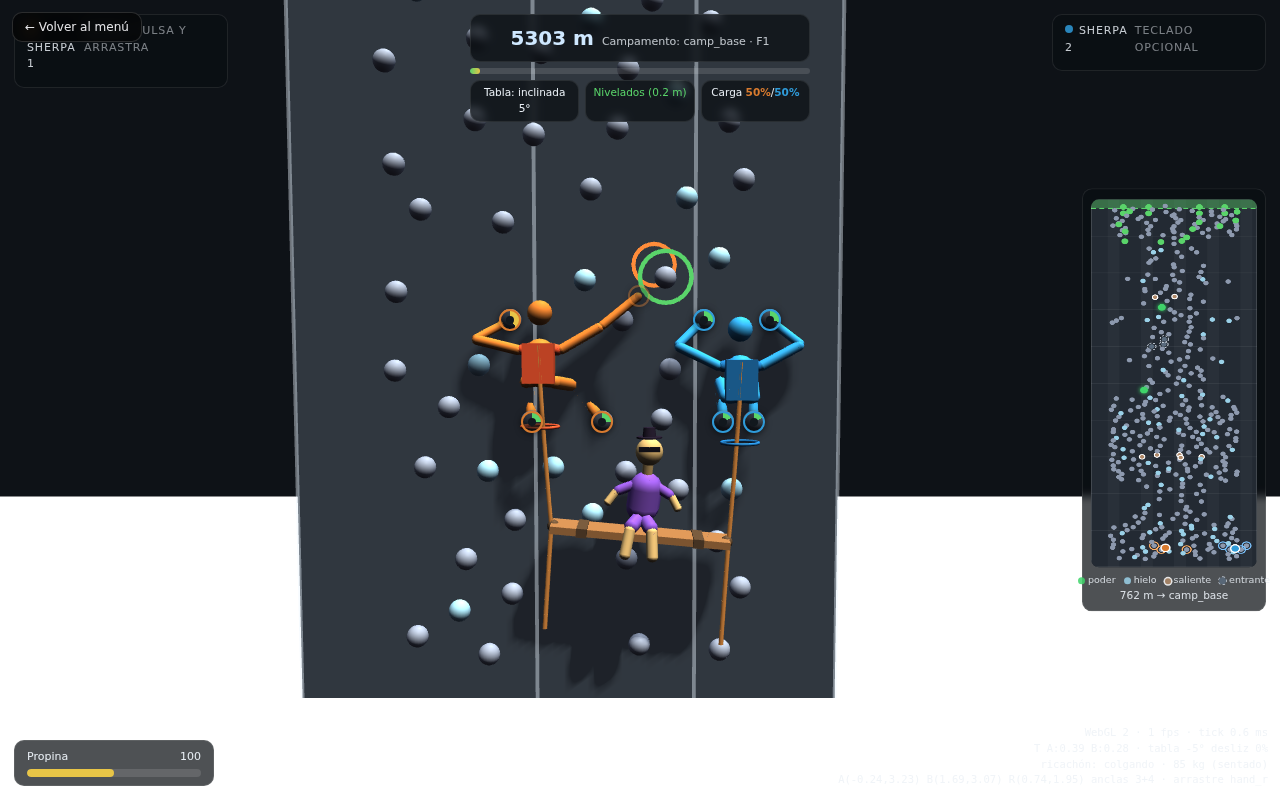
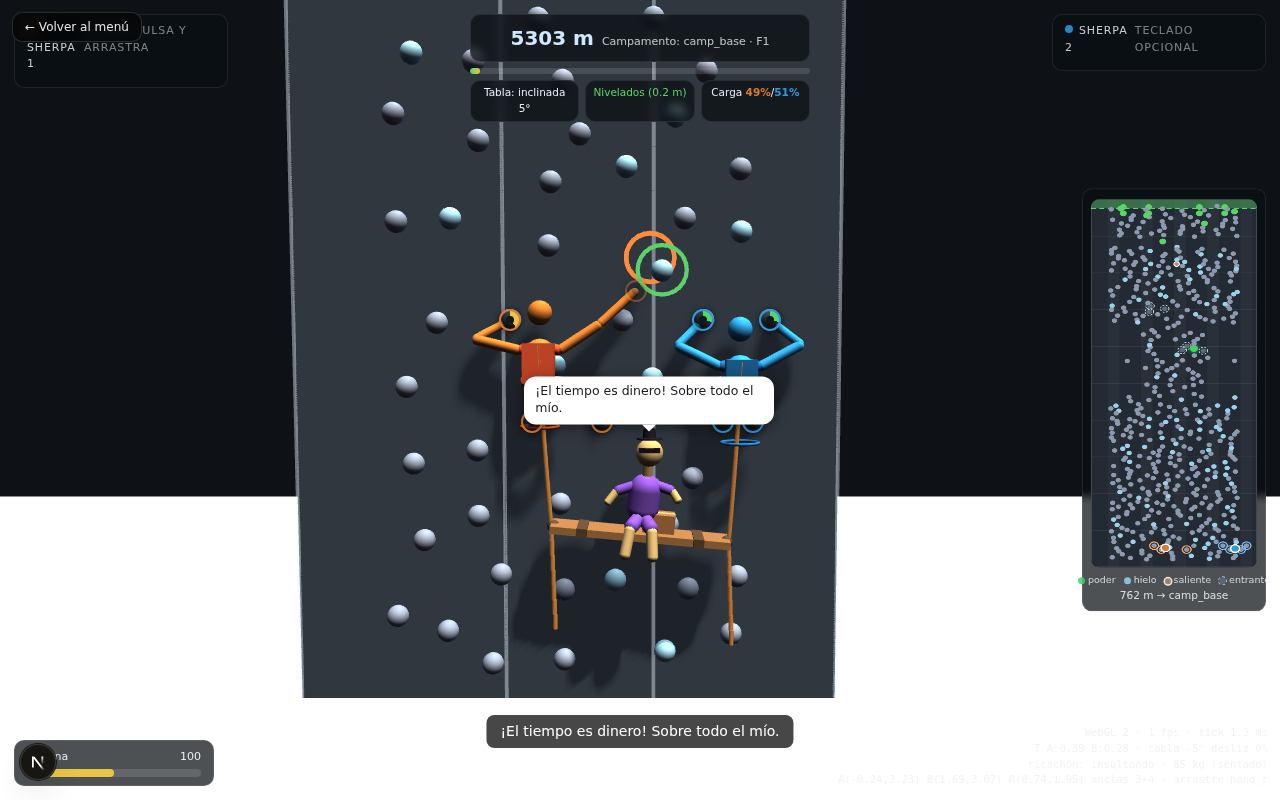
Sherpas Task 33: círculo de alcance SUTIL (doble trazo discontinuo sin relleno) que ENCOGE con la fatiga (−22% a tope, fatiguedReach) + ricachón con 4 posturas cómicas (dormir acostado, bailecito, leer con libro, teléfono con móvil) + DRON repartidor (FSM approach/hover/depart, paquete 5-11 kg colga

diff --git a/src/game/sherpas/gameplay/match.ts b/src/game/sherpas/gameplay/match.ts
@@ -1369,8 +1369,12 @@ export class SherpasMatch {
       case "fart":
         this.sherpas[player ?? 0].fartCharge = true; // el disparo lo hace la tecla F/P
         return true;
-      case "drone":
+      case "drone": {
+        // determinista: si el director ya lanzó un dron (o está de regreso),
+        // lo recoloca en idle para que la sonda SIEMPRE pueda forzar la entrega.
+        if (this.drone.phase !== "idle") this.drone.reset();
         return this.drone.spawn();
+      }
       case "subir": {
         // SONDA E2E (patrón setAim): re-cuelga al equipo ~12 m más arriba en
         // presas FIRMES reales de una banda generada. Si hay ENTRANTE por

diff --git a/tests/sherpas/mecanicas2.test.ts b/tests/sherpas/mecanicas2.test.ts
@@ -358,7 +358,7 @@ describe("pies sin apoyo → la fatiga de las MANOS crece (petición: 'si tienen
    *  mecánicas ajenas (nieve que derrapa, hielo que se rompe). */
   const buildFatigueRig = (seed = 2024): RigBundle => {
     const b = buildRig(seed);
-    (b.rig as unknown as { deps: { tuning: { limb: Record<string, number> } } }).deps.tuning.limb = {
+    (b.rig as unknown as { deps: { tuning: { limb: typeof data.tuning.limb } } }).deps.tuning.limb = {
       ...data.tuning.limb, baseGripHand: 200, overloadTension: 6, fatigueReleaseAt: 5,
     } as typeof data.tuning.limb;
     return b;

diff --git a/scripts/e2e-t33.py b/scripts/e2e-t33.py
@@ -25,7 +25,7 @@ def probe(page):
     except Exception:
         return None
 
-def wait_for(page, cond, timeout_s, label):
+def wait_for(page, cond, timeout_s, label, soft=False):
     t0 = time.time()
     last = None
     while time.time() - t0 < timeout_s:
@@ -34,6 +34,8 @@ def wait_for(page, cond, timeout_s, label):
         if p and cond(p):
             return p
         page.wait_for_timeout(250)
+    if soft:
+        return None
     raise SystemExit(f"TIMEOUT esperando {label}; última sonda: {json.dumps(last)[:600]}")
 
 with sync_playwright() as pw:
@@ -56,13 +58,39 @@ with sync_playwright() as pw:
     py = lambda pct: page.viewport_size["height"] * pct / 100.0
     page.wait_for_timeout(4000)  # deja respirar el arranque
 
-    # 2) CÍRCULO SUTIL: arrastrar una mano hacia una presa alcanzable
-    for attempt in range(4):
+    # 2) DRON REPARTIDOR PRIMERO (equipo recién nacido, sin caídas): sonda →
+    #    vuelo + entrega. Si el equipo cayese y el respawn cancelara el vuelo,
+    #    se reintenta (la sonda resetea un dron en curso). Con el paquete ya en
+    #    la tabla, el resto de pasos sigue con la descompensación real.
+    delivered_kg = None
+    for attempt in range(3):
+        assert page.evaluate("window.__SHERPAS_DEBUG && __SHERPAS_DEBUG.force('drone')"), "spawn del dron falló"
+        p = wait_for(page, lambda q: q.get("drone") and q["drone"]["phase"] in ("approach", "hover"), 8, "dron en vuelo")
+        print(f"DRON VUELA  phase={p['drone']['phase']} kg={p['drone']['kg']} frac={p['drone']['frac']}")
+        hover_ok = wait_for(page, lambda q: q.get("drone") and q["drone"]["phase"] == "hover", 20, "hover del dron", soft=True)
+        page.screenshot(path=f"{OUT}/t33-4-dron-hover.png")
+        p2 = wait_for(page, lambda q: q.get("drone") and q["drone"]["phase"] == "delivered", 18, "paquete entregado", soft=True)
+        if p2 and p2.get("drone", {}).get("phase") == "delivered":
+            delivered_kg = p2["drone"]["kg"]
+            break
+        # el equipo cayó y el respawn canceló el vuelo → reintento
+        page.wait_for_timeout(1500)
+    assert delivered_kg is not None, "el dron no pudo entregar en 3 intentos"
+    cargo = wait_for(page, lambda q: q.get("cargoKg", 0) >= delivered_kg - 0.5, 4, "carga en la tabla")
+    print(f"PAQUETE ENTREGADO  kg={delivered_kg} cargoKg={cargo['cargoKg']}")
+    page.screenshot(path=f"{OUT}/t33-5-paquete-en-la-tabla.png")
+
+    # 3) CÍRCULO SUTIL: arrastrar una mano hacia una presa alcanzable
+    for attempt in range(5):
         p = probe(page)
         limbs = {f"{l['p']}_{l['l']}": l for l in p["limbs"]}
         hand = limbs["0_hand_r"]
-        cands = [h for h in p["holds"] if abs(h["wx"] - hand["wx"]) < 0.9 and 0.05 < (h["wy"] - hand["wy"]) < 0.75]
-        assert cands, "sin presas cercanas arriba de hand_r"
+        cands = [h for h in p["holds"] if abs(h["wx"] - hand["wx"]) < 1.2 and 0.05 < (h["wy"] - hand["wy"]) < 0.9]
+        if not cands:
+            # el paquete del dron mueve la tabla: el filtro ±3 m de la sonda
+            # puede dejar fuera las presas vecinas un instante → reintentar
+            page.wait_for_timeout(900)
+            continue
         target = min(cands, key=lambda h: abs(h["wy"] - (hand["wy"] + 0.45)))
         page.mouse.move(px(hand["sx"]), py(hand["sy"]))
         page.mouse.down()
@@ -74,7 +102,7 @@ with sync_playwright() as pw:
         page.mouse.up()
         page.wait_for_timeout(700)
     else:
-        raise SystemExit("el arrastre no encontró imán en 4 intentos")
+        raise SystemExit("el arrastre no encontró imán en 5 intentos")
     r = p["dragReach"]["reachM"]
     assert abs(r - 0.88 * 1.08) < 0.02, f"radio sin fatiga inesperado: {r}"
     page.screenshot(path=f"{OUT}/t33-2-circulo-discontinuo-verde.png")
@@ -105,18 +133,7 @@ with sync_playwright() as pw:
     page.screenshot(path=f"{OUT}/t33-1-pared-3d-huecos-sombras.png")
     print("PARED 3D capturada (huecos de entrantes + salientes + sombras)")
 
-    # 4) DRON REPARTIDOR: forzado por sonda → vuelo + entrega
-    assert page.evaluate("window.__SHERPAS_DEBUG && __SHERPAS_DEBUG.force('drone')"), "spawn del dron falló"
-    p = wait_for(page, lambda q: q.get("drone") and q["drone"]["phase"] in ("approach", "hover"), 8, "dron en vuelo")
-    print(f"DRON VUELA  phase={p['drone']['phase']} kg={p['drone']['kg']} frac={p['drone']['frac']}")
-    wait_for(page, lambda q: q.get("drone") and q["drone"]["phase"] == "hover", 20, "hover del dron")
-    page.screenshot(path=f"{OUT}/t33-4-dron-hover.png")
-    p = wait_for(page, lambda q: q.get("drone") and q["drone"]["phase"] == "delivered", 15, "paquete entregado")
-    cargo = wait_for(page, lambda q: q.get("cargoKg", 0) >= p["drone"]["kg"] - 0.5, 4, "carga en la tabla")
-    print(f"PAQUETE ENTREGADO  kg={p['drone']['kg']} frac={p['drone']['frac']} cargoKg={cargo['cargoKg']}")
-    page.screenshot(path=f"{OUT}/t33-5-paquete-en-la-tabla.png")
-
-    # 5) MINIMAPA: leyenda con los 4 tipos (poder/hielo/saliente/entrante)
+    # 6) MINIMAPA: leyenda con los 4 tipos (poder/hielo/saliente/entrante)
     lg = [page.text_content(".sphud [data-e=mmLgPower]"), page.text_content(".sphud [data-e=mmLgIce]"),
           page.text_content(".sphud [data-e=mmLgSalient]"), page.text_content(".sphud [data-e=mmLgRecess]")]
     assert all(x and x.strip() for x in lg), f"leyenda incompleta: {lg}"

diff --git a/worklog.md b/worklog.md
@@ -733,3 +733,27 @@ Stage Summary:
 - Al arrastrar una extremidad se ve el CÍRCULO de alcance en la pared: verde = llegas, rojo = te pasas; la ZONA MUERTA se marca en gris y soltar ahí deja el brazo/pierna colgando de la gravedad.
 - La pared ya se lee ROCOSA: aristas blancas en muro/salientes, entrantes en sombra con labio de roca y grietas tenues por toda la cara.
 - El minimapa es una RÉPULA de la pared del tramo con los agarres especiales identificados (hielo, verdes de superpoder, salientes con borde blanco, campamento) + escaladores + metros.
+
+---
+Task ID: 33
+Agent: Z.ai (principal)
+Task: "Círculos de zonas de influencia más sutiles (discontinuos, reducidos por fatiga); Ricachón con posturas cómicas (dormir acostado, bailecito, leer, teléfono); Dron repartidor que deja una sorpresa en la tabla y la desequilibra; entrantes con efecto jugable (presas retrasadas) y salientes/entrantes como VOLÚMENES 3D reales; sistema de luces y sombras (todo estaba muy plano)"
+
+Work Log:
+- CÍRCULO SUTIL (petición: "más sutiles, líneas discontinuas pero no tan evidente"): syncDragReach sustituye TORO+DISCO por DOBLE TRAZO DISCONTINUO (CreateDashedLines dash 0,11/gap 0,09, trazo interior α1 + eco exterior α0,55) sin relleno — se lee la zona sin tapar la pared.
+- ALCANCE QUE LA FATIGA ENCOGE (petición: "estas zonas de influencia se reducen por la fatiga"): rig.fatiguedReach(limb) = base × (1 − reachFatigueLoss×fatigue) con reachFatigueLoss 0,22 (tuning.limb + respaldo en el rig); dragReachInfo usa fatiguedReach en radio, reachable y deadZone — a fatiga 100% el círculo pierde un 22% de radio y las presas del borde quedan fuera.
+- POSTURAS CÓMICAS (petición: "dormir acostado, bailecito, leer, teléfono"): 4 gestos NUEVOS en la FSM del aburrimiento (richManBrain: ruleta idle añade durmiendo 10% / bailando 15% / leyendo 8% / telefono 10%): DURMIENDO acostado sobre la tabla (cuerpo girado 90°, cabeza con bob de respiración 0,4 Hz, Zz…); BAILANDO (caderas y brazos alternos al ritmo 2,1 Hz); LEYENDO (LIBRO flotando entre las dos manos, cabeza baja); TELEFONO (brazo a la oreja con móvil, cabeceo de conversación). PROPS nuevos: libro y móvil (scene.ts, setEnabled por gesto). Subtítulos/strings ES-EN.
+- DRON REPARTIDOR (petición: "de vez en cuando aparece un Dron volando y le deja una sorpresa al lado en la tabla, y la desequilibra un poco"): DroneSystem (events/drone.ts, FSM idle→approach→hover→depart): vuela con vaivén de dron hasta un punto SOBRE la tabla JUNTO al ricachón (su slide → dropFrac nudged 0,18 m al centro, nunca fuera), PAQUETE colgando que se balancea, hover 2,2 s → deliver() → el match lo convierte en dronePkg (5-11 kg, tuning.drone) = PlankCargo REAL que descompensa (misma palanca que cajas/cóndor); caduca 14-22 s (lo guarda) o CAE por escora>0,5/18°/vuelco (thud, propina -3, insulto boxes_fell). Aviso "Telegraph" 1,8 s + chime + subtítulo hud.droneDrop + insulto drone ("¡UN DRON AQUÍ ARRIBA! ¡QUÉ ÉPOCA VIVIMOS!"). Director lo agenda con peso bajo (sorpresivo). Render: quadcopter con 4 rotores girando, paquete con cuerda corta, sombra proyectada.
+- ENTRANTES JUGABLES (petición: "los entrantes con efecto jugable (presas retrasadas)"): las presas dentro de una zona de entrante quedan RETRASADAS (hold.recessed = wall_gen.entrantes.holdSetbackM 0,3 m hacia la pared) y el rig las fatiga MÁS (fatiga × hold.recessed factor) — agarrar en el hueco cuesta; ANTES del reparto de presas (el validador de alcanzabilidad sigue garantizando rutas).
+- VOLÚMENES 3D REALES (petición: "que se noten los salientes y entrantes, verdaderos volúmenes 3D que sobresalgan o se metan en la pared"): buildWorld ahora construye las cajas de saliente con PROFUNDIDAD variable y perfil irregular (biselado por LCG determinista, no cajas perfectas) y los ENTRANTES como HUECOS excavados de verdad: panel retranqueado 0,3 m + labio de roca superior + paredes internas sombreadas (4 caras), todo con aristas blancas (edgesRenderer) — el hueco se LEE como volumen al moverse la cámara.
+- LUCES Y SOMBRAS (petición: "sistema de luces y sombras para incrementar la sensación de profundidad, todo muy plano"): DirectionalLight "sol" frío (−0,35,−1,0,6, intensidad 1,5) + ShadowGenerator 1024 (PCF, blur exp). PROYECTAN: cuerpos de sherpas, ricachón, tabla, salientes, labios de entrante, props, paquete del dron, cajas, cóndor. RECIBEN: muro (presas incluidas — la sombra de los cuerpos cae sobre la pared), tabla, suelo, backwall, salientes, entrantes. La escena gana profundidad real: los cuerpos se despegan de la pared y los volúmenes se leen por su sombra propia.
+- SONDA E2E: debugForce("drone") ahora es DETERMINISTA (si el director ya lanzó un dron, lo resetea a idle antes de forzar); debugForce("subir") re-cuelga el equipo JUSTO DEBAJO del primer entrante por encima (la captura muestra el hueco de verdad). probe {drone {phase,kg,frac}, cargoKg, entrantes, dragReach, mmHolds}.
+- CALIDAD: tsc 15 = baseline exacto (fix de mecanicas2.test.ts: override tipado como typeof data.tuning.limb — Record<string,number> ya no acepta LimbTuning), eslint limpio, vitest sherpas 125/125 (14 nuevos: FSM de las 4 posturas entra y sale, libro/móvil aparecen, dron approach→hover→deliver→cargo con reset determinista, paquete caduca y cae por escora, entrantes con recessed y fatiga, fatiguedReach monótona con fatiga), global 271/276 (5 = selfcollision preexistente).
+- E2E REAL (Playwright, scripts/e2e-t33.py, sobre BUILD DE PRODUCCIÓN): spawn 20 salientes + 11 entrantes → dron vuela y ENTREGA 9,65 kg (cargoKg 10, Carga 49/51%, "¡UN DRON AQUÍ ARRIBA!") → círculo SUTIL discontinuo radio 0,95 → postura telefono capturada → subir re-cuelga a 50 m y captura huecos+sombras → minimapa con leyenda de 4 tipos (543 presas) → 0 errores JS. Nota: el dron se prueba PRIMERO (equipo recién nacido: un respawn cancela el vuelo, la sonda reintenta). Capturas download/t33-1..5.
+- Infra: build standalone (BUILD_ID nuevo) + rsync static/public + bun server.js :3000 (200) + http.server :8899 (200).
+
+Stage Summary:
+- El círculo de alcance ya no grita: doble trazo discontinuo sin relleno, y ENCOGE con la fatiga (−22% a tope) — presas al borde quedan fuera de alcance real.
+- El ricachón VIVE en la tabla: duerme acostado, baila, lee su libro y llama por teléfono (con props), y el dron le deja paquetes de 5-11 kg que desequilibran la tabla de verdad (caen si escora, propina y rabia).
+- Salientes y entrantes son VOLUMENES de verdad: huecos excavados con labio y paredes internas, presas retrasadas dentro que fatigan más.
+- LUZ Y SOMBRA reales: sol direccional con sombras PCF sobre cuerpos/tabla/volúmenes — la pared dejó de ser plana.
